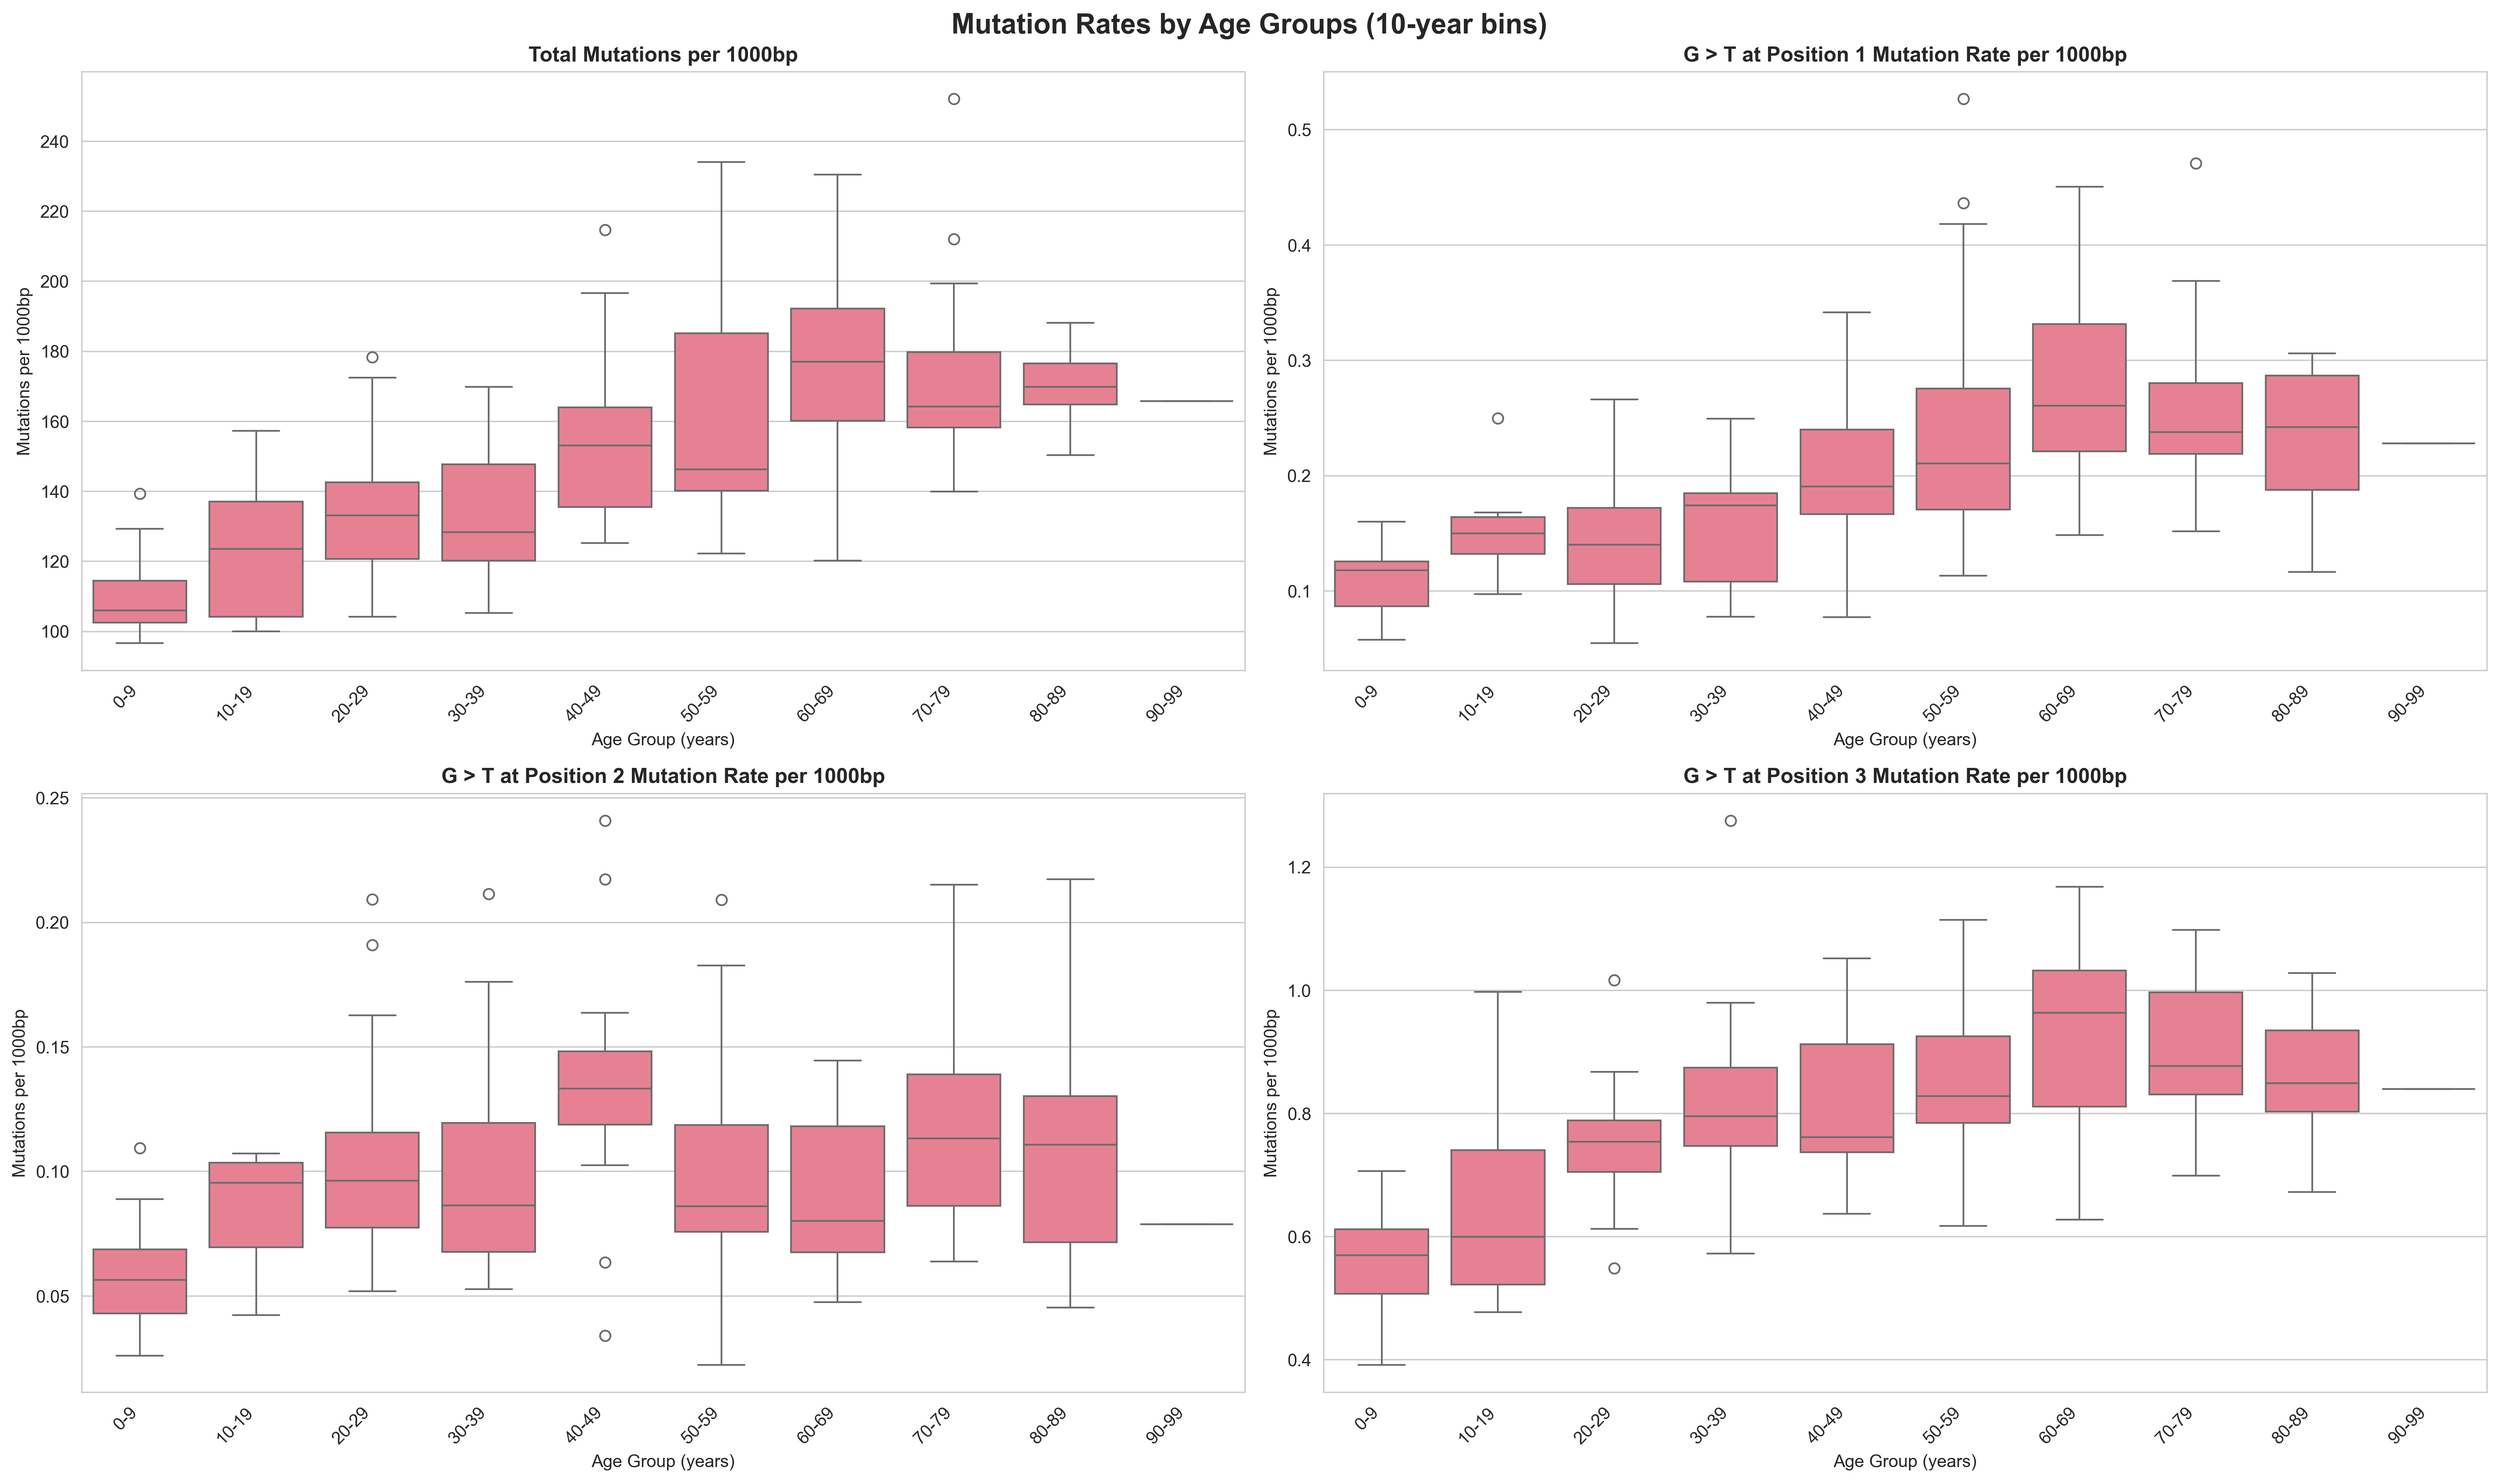
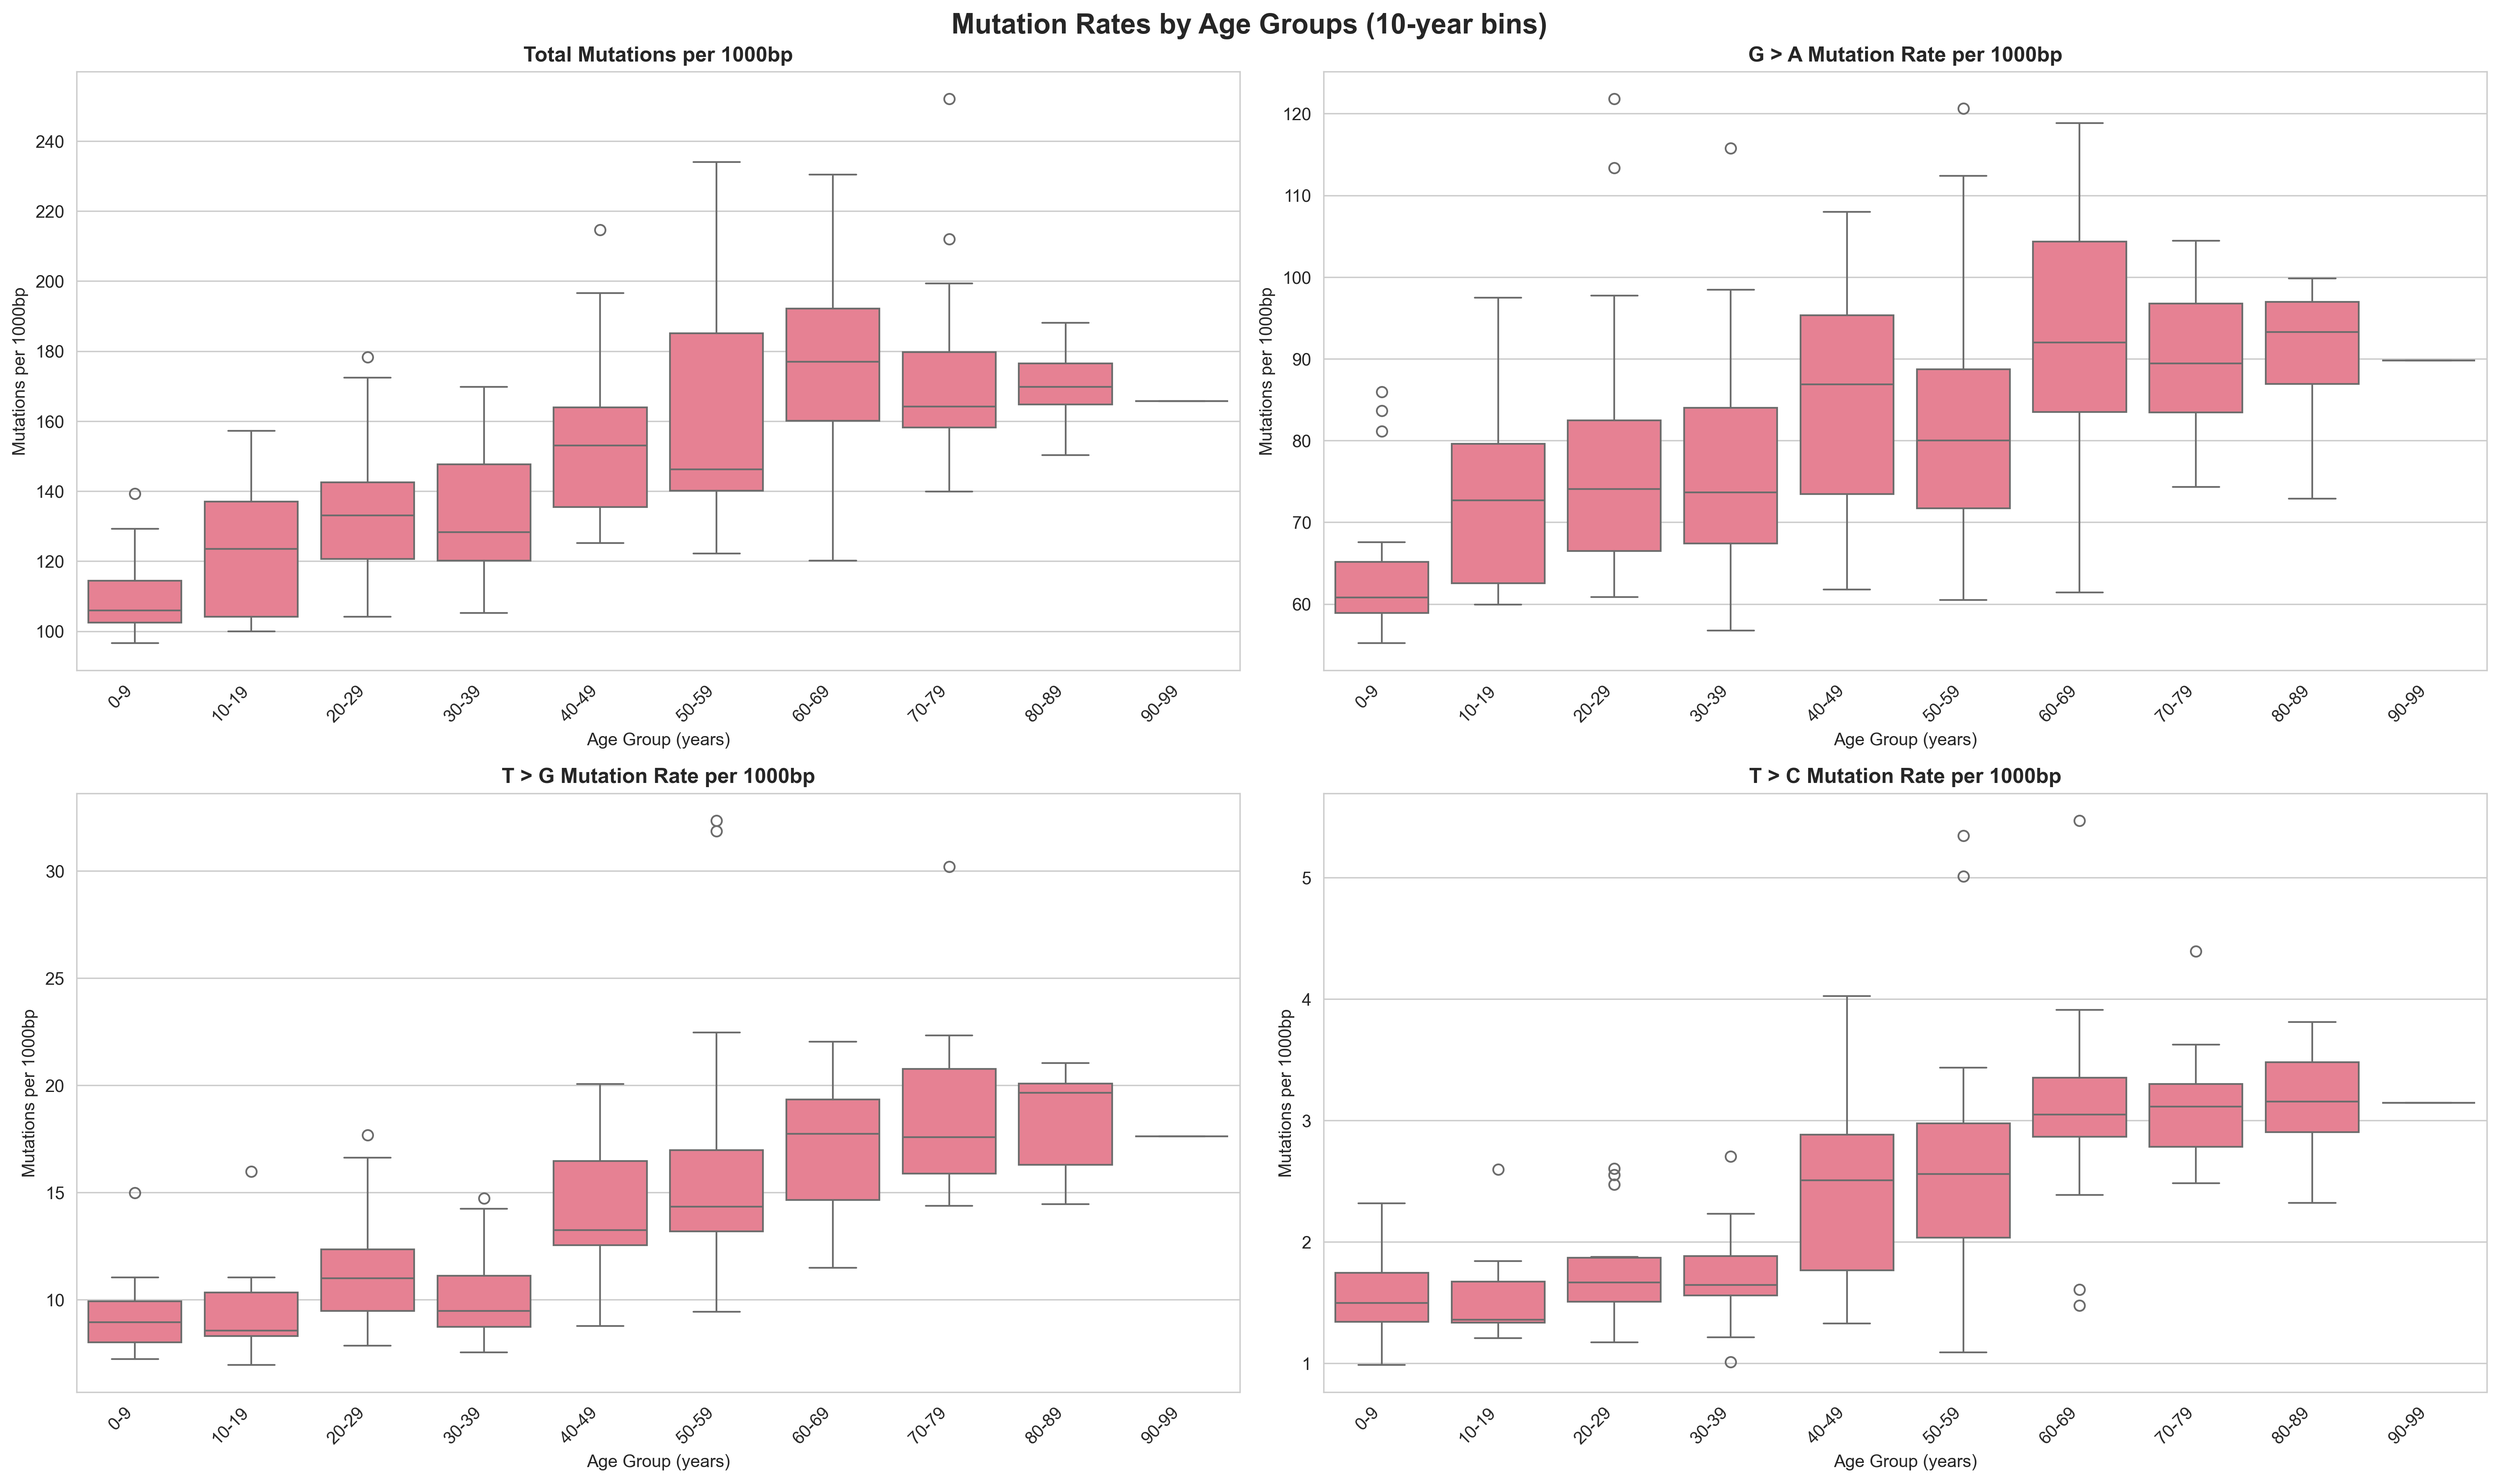
Added Fasta suppport

diff --git a/analysis/generate_csv.py b/analysis/generate_csv.py
@@ -7,20 +7,41 @@ import os
 import numpy as np
 import glob
 
-def read_fastq(file_path: str):
-    """Read FASTQ file and yield sequences."""
+def read_sequence_file(file_path: str):
+    """Read FASTQ or FASTA file and yield sequences."""
     open_func = gzip.open if file_path.endswith('.gz') else open
     mode = 'rt' if file_path.endswith('.gz') else 'r'
     
+    # Detect format by file extension
+    is_fasta = any(ext in file_path.lower() for ext in ['.fasta', '.fa', '.fas'])
+    
     with open_func(file_path, mode) as f:
-        while True:
-            header = f.readline().strip()
-            if not header:
-                break
-            sequence = f.readline().strip()
-            _ = f.readline()  
-            _ = f.readline() 
-            yield sequence
+        if is_fasta:
+            # FASTA format
+            current_sequence = ""
+            for line in f:
+                line = line.strip()
+                if line.startswith('>'):
+                    # New sequence header - yield previous sequence if exists
+                    if current_sequence:
+                        yield current_sequence
+                        current_sequence = ""
+                else:
+                    # Sequence line - append to current sequence
+                    current_sequence += line
+            # Yield the last sequence
+            if current_sequence:
+                yield current_sequence
+        else:
+            # FASTQ format
+            while True:
+                header = f.readline().strip()
+                if not header:
+                    break
+                sequence = f.readline().strip()
+                _ = f.readline()  # + line
+                _ = f.readline()  # quality line
+                yield sequence
 
 def count_patterns(sequence: str, pattern: str) -> int:
     return sequence.count(pattern)
@@ -45,18 +66,29 @@ def load_length_data():
             length_data[fastq_name] = row['Mean Telomere Length (bps)']
     return length_data
 
-def get_fastq_files(directory: str):
-    """Get all FASTQ files in the given directory."""
-    # Look for both .fastq and .fastq.gz files
-    fastq_files = glob.glob(os.path.join(directory, "*.fastq"))
-    fastq_files.extend(glob.glob(os.path.join(directory, "*.fastq.gz")))
-    return sorted(fastq_files)  # Sort for consistent ordering
+def get_sequence_files(directory: str):
+    """Get all FASTQ and FASTA files in the given directory."""
+    sequence_files = []
+    
+    # FASTQ files
+    sequence_files.extend(glob.glob(os.path.join(directory, "*.fastq")))
+    sequence_files.extend(glob.glob(os.path.join(directory, "*.fastq.gz")))
+    
+    # FASTA files
+    sequence_files.extend(glob.glob(os.path.join(directory, "*.fasta")))
+    sequence_files.extend(glob.glob(os.path.join(directory, "*.fasta.gz")))
+    sequence_files.extend(glob.glob(os.path.join(directory, "*.fa")))
+    sequence_files.extend(glob.glob(os.path.join(directory, "*.fa.gz")))
+    sequence_files.extend(glob.glob(os.path.join(directory, "*.fas")))
+    sequence_files.extend(glob.glob(os.path.join(directory, "*.fas.gz")))
+    
+    return sorted(sequence_files)  # Sort for consistent ordering
 
 def generate_csv(data_dir: str):
-    fastq_files = get_fastq_files(data_dir)
+    sequence_files = get_sequence_files(data_dir)
     
-    if not fastq_files:
-        print(f"No FASTQ files found in {data_dir} directory")
+    if not sequence_files:
+        print(f"No FASTQ or FASTA files found in {data_dir} directory")
         return
     
     # Load age data
@@ -178,10 +210,10 @@ def generate_csv(data_dir: str):
         writer = csv.DictWriter(csvfile, fieldnames=fieldnames)
         writer.writeheader()
         
-        for file_path in fastq_files:
+        for file_path in sequence_files:
             counts = defaultdict(int)
             
-            for sequence in read_fastq(file_path):
+            for sequence in read_sequence_file(file_path):  # Changed function name
                 # Count c-strand in forward direction only
                 counts['c_strand'] += count_patterns(sequence, patterns['c_strand'])
                 # Count g-strand in forward direction only
@@ -192,7 +224,13 @@ def generate_csv(data_dir: str):
                         counts[f"{group}_{subkey}"] += count_patterns(sequence, subpattern)
             
             filename = os.path.basename(file_path)
-            filename_base = filename.replace('.fastq', '').replace('.gz', '')
+            # Handle both FASTQ and FASTA extensions
+            filename_base = filename
+            for ext in ['.fastq.gz', '.fastq', '.fasta.gz', '.fasta', '.fa.gz', '.fa', '.fas.gz', '.fas']:
+                if filename_base.endswith(ext):
+                    filename_base = filename_base[:-len(ext)]
+                    break
+            
             age = age_data.get(filename_base, '')
             length = length_data.get(filename_base, '')
             g_strand_total = counts['g_strand']

diff --git a/analysis/trendline.py b/analysis/trendline.py
@@ -14,17 +14,16 @@ def plot_trendlines(data, output_path):
     
     # Define the variables to plot
     variables = [
-        'total_mutations_over_total_g_strand_2xrepeats_per_1k',
-        'g_strand_mutations_G>T_g1_per_1k',
-        'g_strand_mutations_G>T_g2_per_1k',
-        'g_strand_mutations_G>T_g3_per_1k'
+         'total_mutations_over_total_g_strand_2xrepeats_per_1k',
+        'g_strand_A>G_sum_per_1k',  # pos1 mutation rate
+        'g_strand_T>G_sum_per_1k',  # pos2 mutation rate  
+        'g_strand_T>C_sum_per_1k'   # pos3 mutation rate
     ]
-    
     titles = [
         'Total Mutations per 1000bp',
-        'G > T at Position 1 Mutation Rate per 1000bp',
-        'G > T at Position 2 Mutation Rate per 1000bp',
-        'G > T at Position 3 Mutation Rate per 1000bp'
+        'G > A Mutation Rate per 1000bp',
+        'T > G Mutation Rate per 1000bp',
+        'T > C Mutation Rate per 1000bp'
     ]
     
     # Plot each variable
@@ -62,16 +61,16 @@ def plot_spearman_correlations(data, output_path):
     sns.set_palette("husl")
     
     variables = [
-        'total_mutations_over_total_g_strand_2xrepeats_per_1k',
-        'g_strand_mutations_G>T_g1_per_1k',
-        'g_strand_mutations_G>T_g2_per_1k',
-        'g_strand_mutations_G>T_g3_per_1k'
+         'total_mutations_over_total_g_strand_2xrepeats_per_1k',
+        'g_strand_A>G_sum_per_1k',  # pos1 mutation rate
+        'g_strand_T>G_sum_per_1k',  # pos2 mutation rate  
+        'g_strand_T>C_sum_per_1k'   # pos3 mutation rate
     ]
     titles = [
         'Total Mutations per 1000bp',
-        'G > T at Position 1 Mutation Rate per 1000bp',
-        'G > T at Position 2 Mutation Rate per 1000bp',
-        'G > T at Position 3 Mutation Rate per 1000bp'
+        'G > A Mutation Rate per 1000bp',
+        'T > G Mutation Rate per 1000bp',
+        'T > C Mutation Rate per 1000bp'
     ]
     
     fig, axes = plt.subplots(2, 2, figsize=(20, 12))

diff --git a/analysis/main.py b/analysis/main.py
@@ -12,17 +12,17 @@ from histogram import plot_histograms_main
 plot_histograms_main()
 
 # Step 3: Plot mutational signatures
-print("[3/4] Plotting mutational signatures ...")
-from plotting import plot_mutational_signatures_main
-from plotting import plot_spearman_with_age_main
-from plotting import plot_composite_score_main
-# from plotting import plot_mutation_r_heatmap_main
-from plotting import plot_pairwise_r_heatmap_main
-plot_mutational_signatures_main()
-plot_spearman_with_age_main()
-plot_composite_score_main()
-# plot_mutation_r_heatmap_main()
-plot_pairwise_r_heatmap_main()
+# print("[3/4] Plotting mutational signatures ...")
+# from plotting import plot_mutational_signatures_main
+# from plotting import plot_spearman_with_age_main
+# from plotting import plot_composite_score_main
+# # from plotting import plot_mutation_r_heatmap_main
+# from plotting import plot_pairwise_r_heatmap_main
+# plot_mutational_signatures_main()
+# plot_spearman_with_age_main()
+# plot_composite_score_main()
+# # plot_mutation_r_heatmap_main()
+# plot_pairwise_r_heatmap_main()
 
 # Step 4: Plot trendlines and correlations
 print("[4/4] Plotting trendlines and correlations ...")

diff --git a/analysis/histogram.py b/analysis/histogram.py
@@ -13,16 +13,16 @@ def plot_histograms(data, output_path):
     
     variables = [
         'total_mutations_over_total_g_strand_2xrepeats_per_1k',
-        'g_strand_mutations_G>T_g1_per_1k',  # pos1 mutation rate
-        'g_strand_mutations_G>T_g2_per_1k',  # pos2 mutation rate  
-        'g_strand_mutations_G>T_g3_per_1k'   # pos3 mutation rate
+        'g_strand_A>G_sum_per_1k',  # pos1 mutation rate
+        'g_strand_T>G_sum_per_1k',  # pos2 mutation rate  
+        'g_strand_T>C_sum_per_1k'   # pos3 mutation rate
     ]
     
     titles = [
         'Total Mutations per 1000bp',
-        'G > T at Position 1 Mutation Rate per 1000bp',
-        'G > T at Position 2 Mutation Rate per 1000bp',
-        'G > T at Position 3 Mutation Rate per 1000bp'
+        'G > A Mutation Rate per 1000bp',
+        'T > G Mutation Rate per 1000bp',
+        'T > C Mutation Rate per 1000bp'
     ]
     
     for i, (var, title) in enumerate(zip(variables, titles)):
